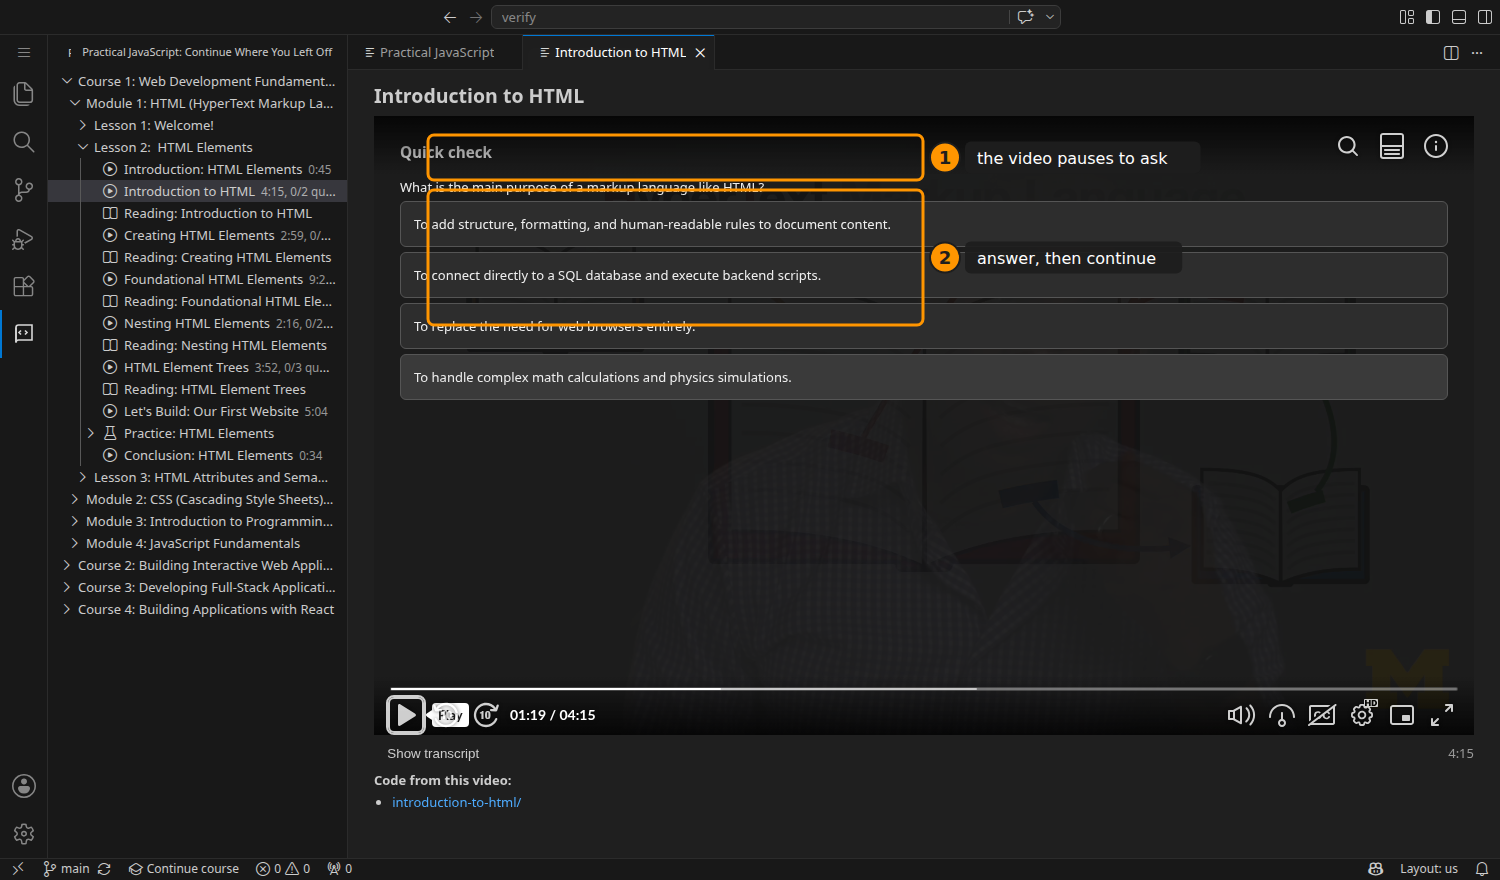
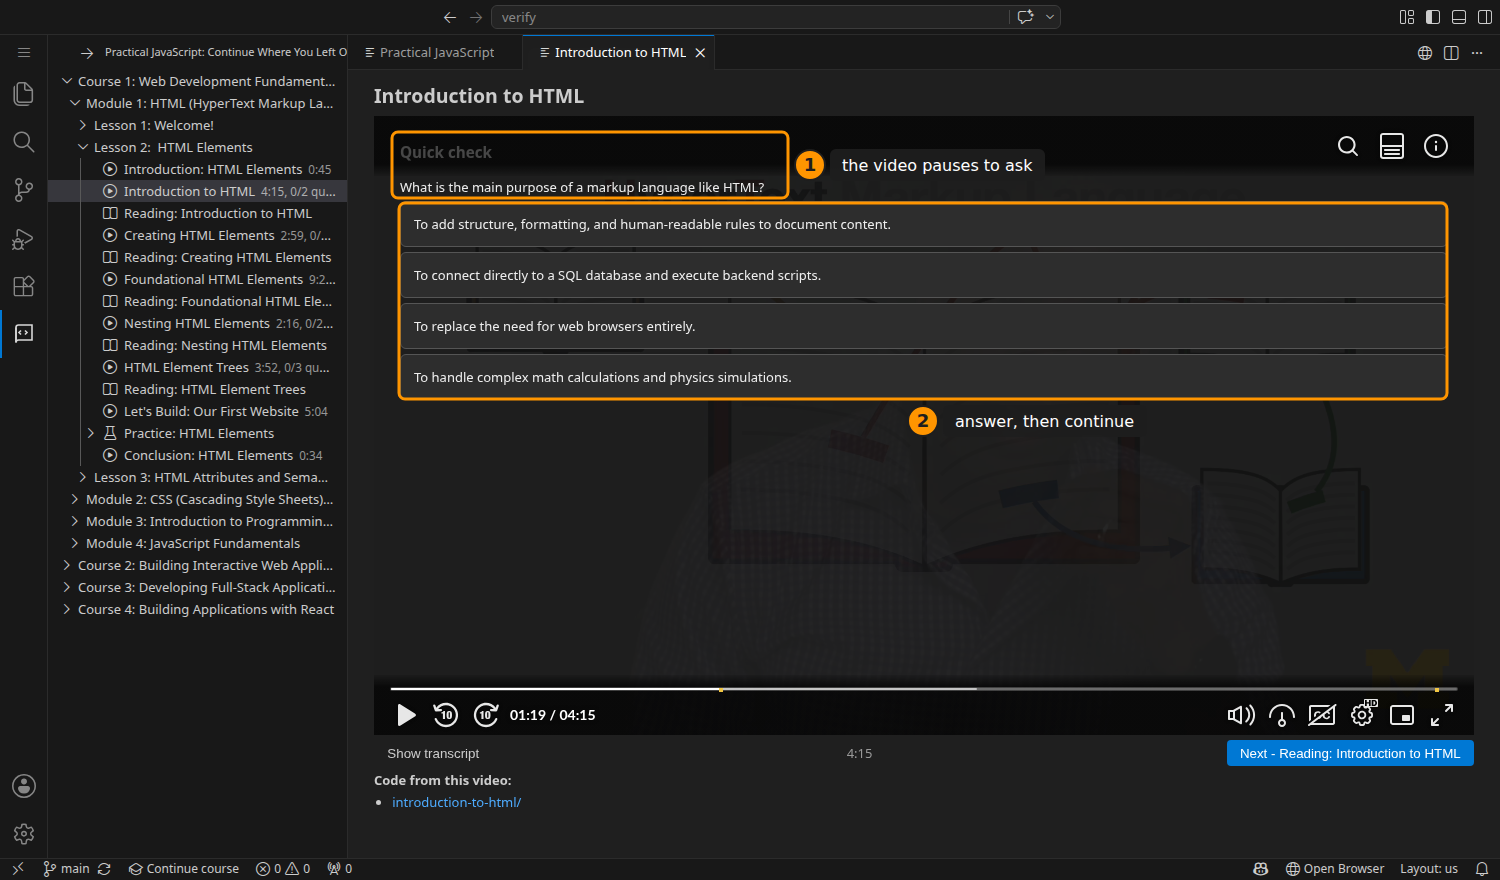
Sync from the course authoring repo

diff --git a/docs/working-in-the-codespace.md b/docs/working-in-the-codespace.md
@@ -79,7 +79,8 @@ Clicking a video opens the lecture inside the editor.
 Under the video you will also find **Code from this video**: the exact folder
 and files written on camera during that lecture. Clicking a file opens it beside
 the video, so you can follow along in the real code instead of retyping from the
-screen.
+screen. The **Next** button at the right of that same bar names whatever comes
+after this lecture and takes you there, which is usually its reading.
 
 ### In-video questions
 
